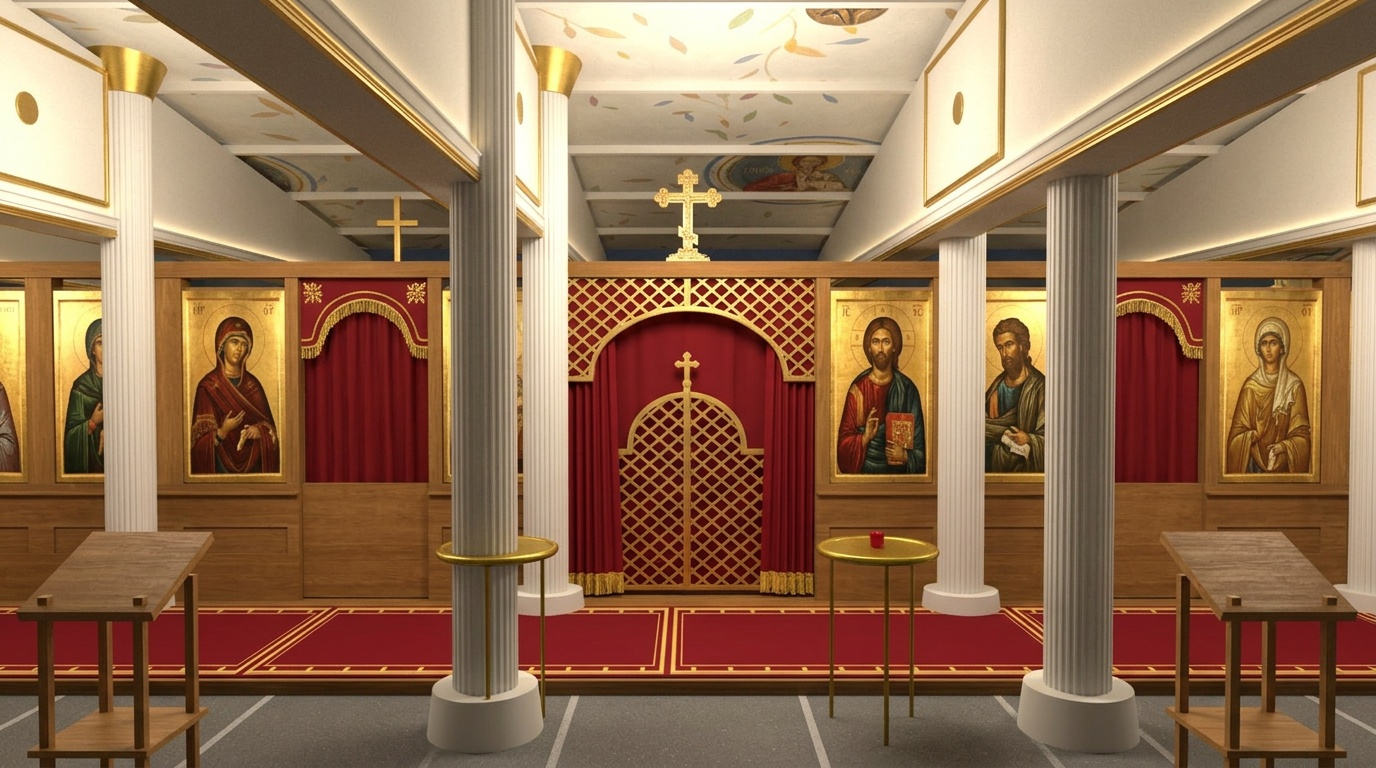
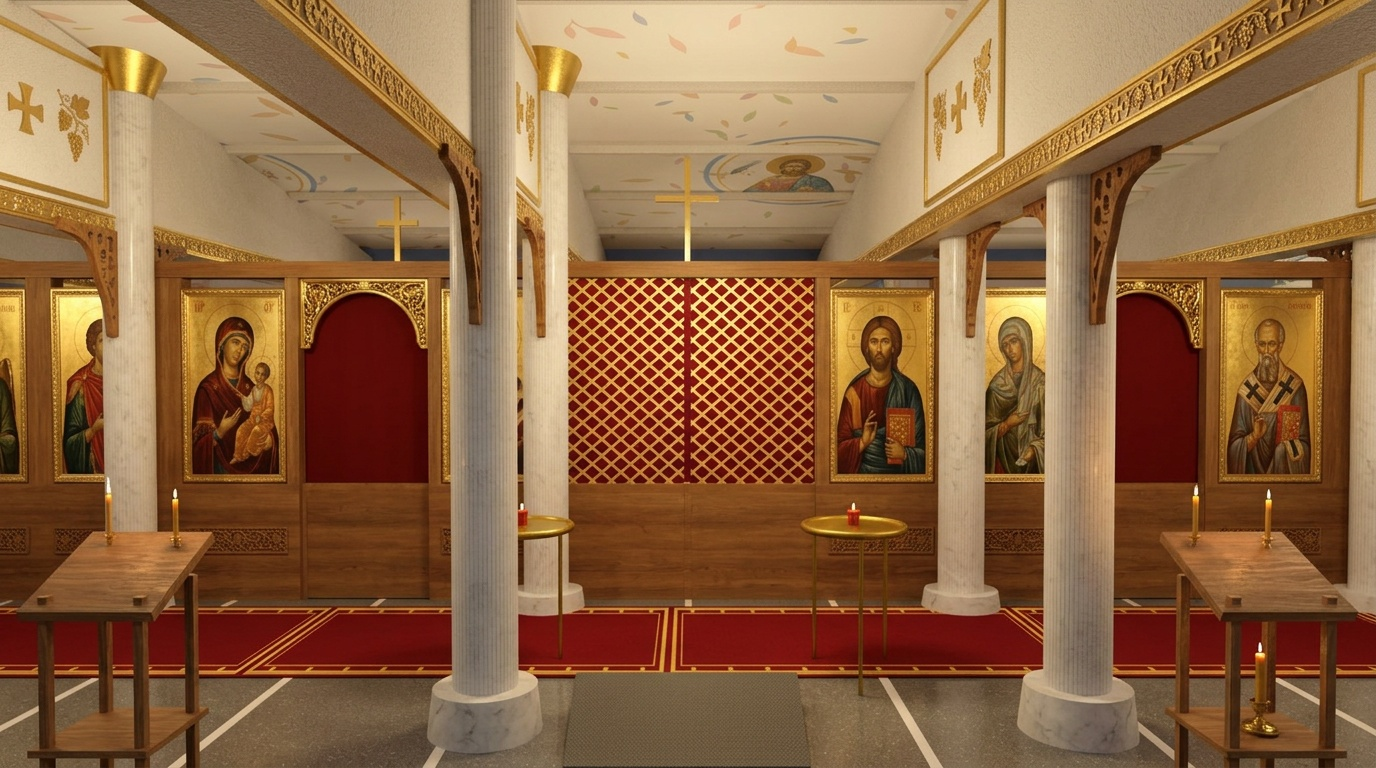
Re-render all temple views with brackets; stasidia camera moved off the royal doors
Claude-Session: https://claude.ai/code/session_01F9vtHPtZGeYhA4xT8Rqj6J

diff --git a/territory-3d/tools/renders/make_refs.js b/territory-3d/tools/renders/make_refs.js
@@ -12,7 +12,7 @@ const VIEWS = {
   mosque_entrance: 'cam=34,1.8,-131&at=33,1.5,-120', mosque_aerial: 'cam=22,24,-100&at=32,0,-118.6',
   mosque_interior: 'roof=0&cam=38,2.6,-123.5&at=29,1.0,-117', mosque_hall: 'cam=30.9,1.6,-116.0&at=26.7,0.7,-121.3',
   temple_nave: 'finish=wood&' + FRONT, temple_trusses: 'cam=124.5,1.6,-266&at=114,2.9,-254',
-  temple_stasidia: 'cam=121,1.6,-258&at=113,1.6,-262',
+  temple_stasidia: 'cam=118.6,1.6,-255.2&at=113.4,1.5,-262',
 };
 for (const f of ['white', 'wood', 'wood_open', 'wood_glass', 'stucco', 'icons', 'icons_painted', 'ceiling']) VIEWS['temple_finish_' + f] = 'finish=' + f + '&' + FRONT;
 (async () => {

diff --git a/territory-3d/renders/PROMPTS.md b/territory-3d/renders/PROMPTS.md
@@ -21,7 +21,7 @@ industrial camp, overcast soft daylight, 35 mm lens, high detail, no people, no 
 | `mosque_interior.jpg` | крыша снята, (38, 2.6, −123.5) → (29, 1.0, −117) | Interior of the prayer hall seen from above with the roof removed: one large deep green wool carpet with a gold border and rows of arched prayer niches covering the whole floor, light grey panel walls, a pale curtain divider across the room, a small shoe rack by the door, soft daylight from one window. |
 | `temple_nave.jpg` | из зала напротив иконостаса: (113.3, 1.6, −258.6) → (120.4, 1.8, −258.6) | Interior of an Orthodox chapel fitted inside a modular hall: iconostasis along the long wall with gilded icons, red-and-gold lattice royal doors, red curtains, a red carpet runner with gold border on a low wooden solea, brass candle stands, wooden lecterns, painted walls with pastel arches and leaf ornament, oak-clad square columns with gilded capitals, oak-clad roof trusses with stained-glass panels in the openings glowing warm, painted ceiling. |
 | `temple_trusses.jpg` | (124.5, 1.6, −266) → (114, 2.9, −254) | Looking up along the chapel hall at the oak-clad roof trusses: every chord, vertical and diagonal boxed in warm oak, gilded moulding along the bottom chord, leaded stained glass in every truss opening with warm backlight, painted ceiling with leaf ornament above, pastel painted walls with arches, high-backed oak choir stalls along the far wall. |
-| `temple_stasidia.jpg` | (121, 1.6, −258) → (113, 1.6, −262) | Eye-level view across the chapel towards the wall opposite the iconostasis: a row of high-backed arched oak choir stalls with dark stools between groups, white cabinets and a bench against the end wall, painted walls with blue medallion dado and pastel arches, oak-clad columns, red carpet runner, warm interior light. |
+| `temple_stasidia.jpg` | (118.6, 1.6, −255.2) → (113.4, 1.5, −262) | Eye-level view across the chapel towards the wall opposite the iconostasis: a row of high-backed arched oak choir stalls with dark stools between groups, white cabinets and a bench against the end wall, painted walls with blue medallion dado and pastel arches, oak-clad columns, red carpet runner, warm interior light. |
 
 ## Варианты отделки храма и зал мечети
 
